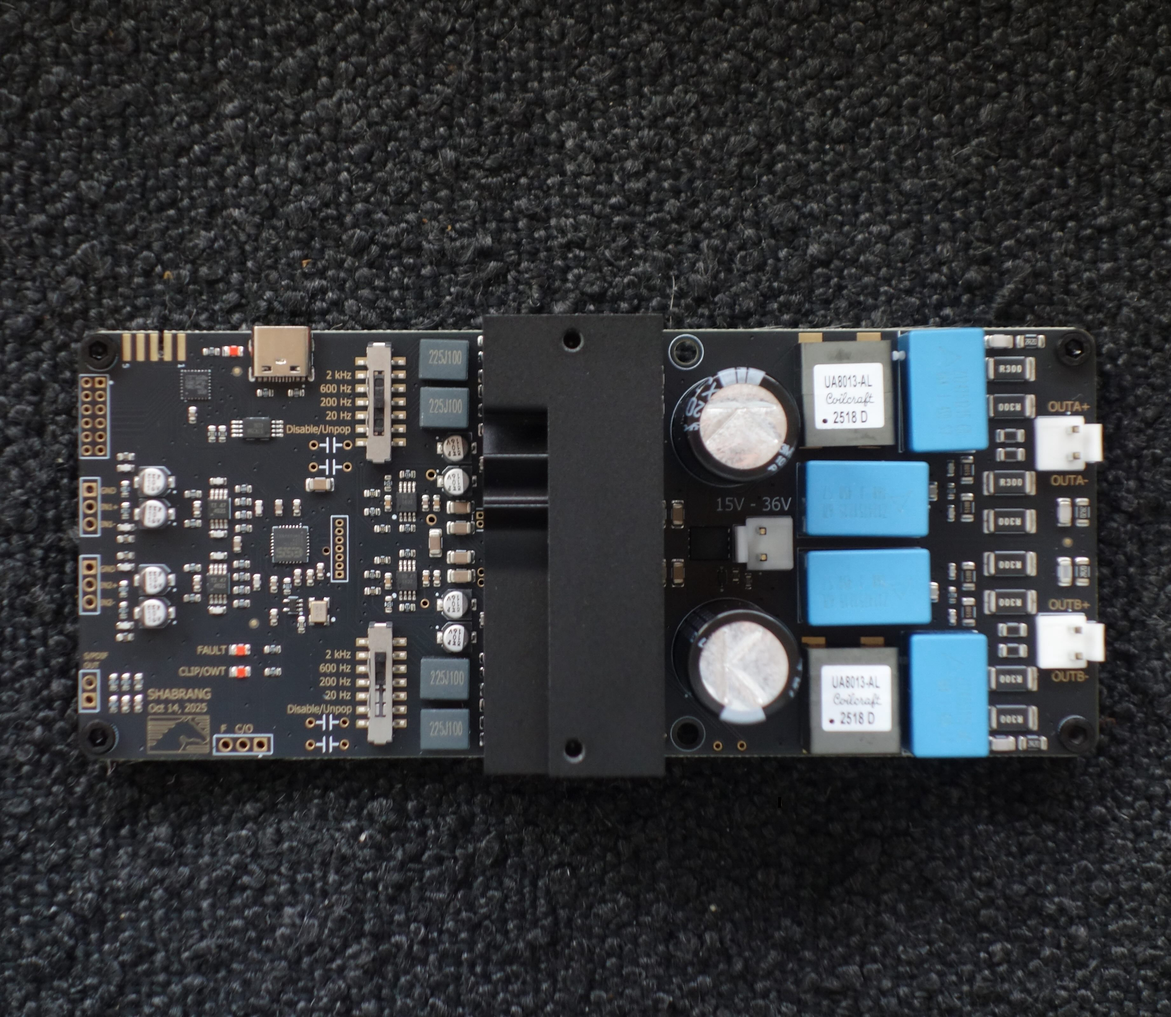
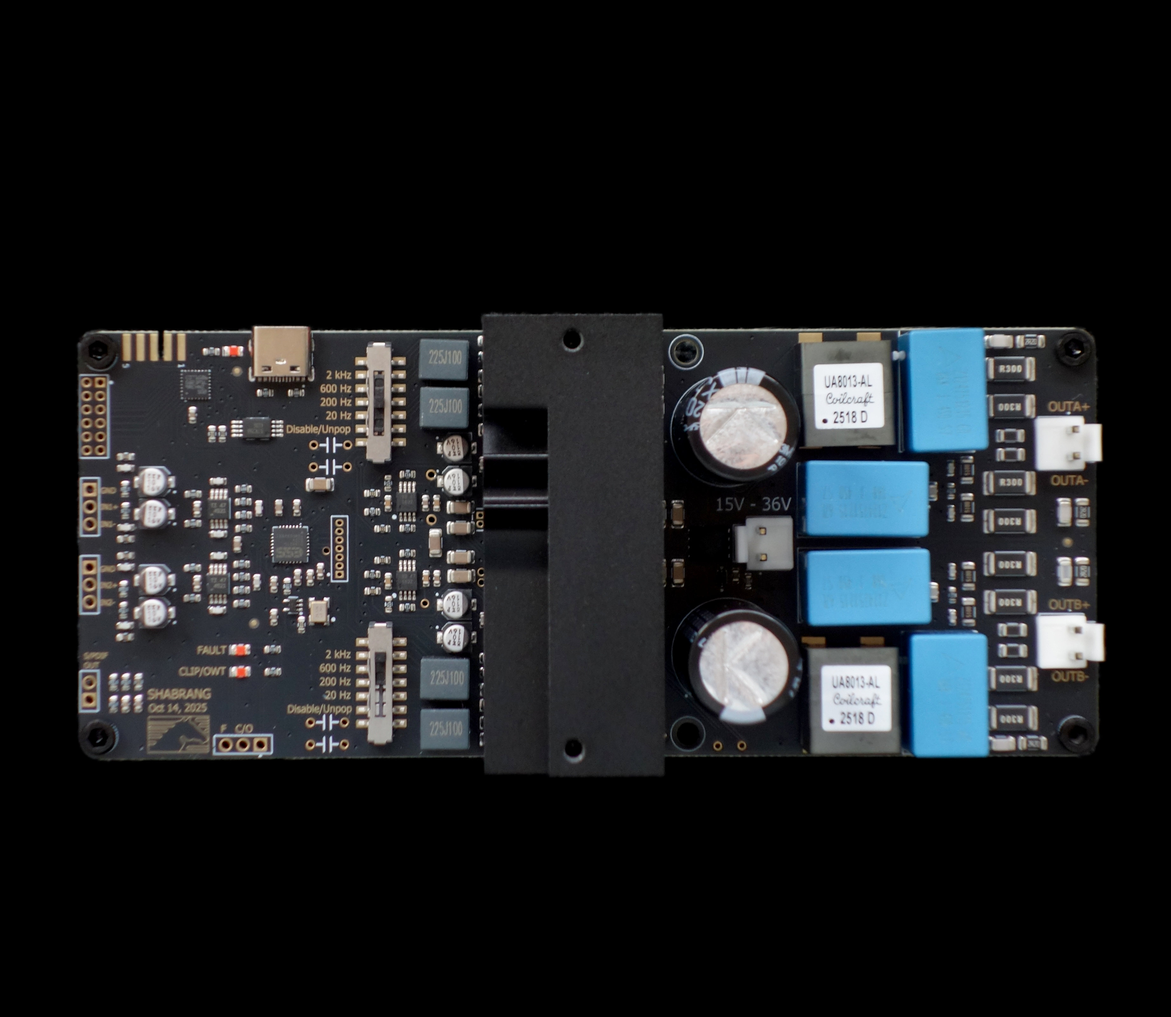
updated images, make improvements to layout include the mobile layout.

diff --git a/index.html b/index.html
@@ -58,7 +58,7 @@ description: "Band‑Selective Current Drive amplifier module with built‑in DS
     </div>
     <div class="media">
       <img
-      src="{{ '/assets/images/amp_cropped_compressed.jpeg' | relative_url }}"
+      src="{{ '/assets/images/amp_matt_background.jpeg' | relative_url }}"
         alt="Black Horse Audio amplifier module"
         decoding="async"
         loading="eager"
@@ -74,6 +74,7 @@ description: "Band‑Selective Current Drive amplifier module with built‑in DS
   </section>
 
   <section class="feature">
+    <h2 class="feature-mobile-title">Why this matters</h2>
     <div>
       <h2>Why this matters</h2>
       <div>
@@ -107,6 +108,7 @@ description: "Band‑Selective Current Drive amplifier module with built‑in DS
   </section>
 
   <section class="feature">
+    <h2 class="feature-mobile-title">How it works</h2>
     <div class="feature-media">
       <img
         style="filter: invert(0.95)"
@@ -143,6 +145,7 @@ description: "Band‑Selective Current Drive amplifier module with built‑in DS
   </section>
 
   <section class="feature">
+    <h2 class="feature-mobile-title">Built‑in DSP: Active XO &amp; EQ</h2>
     <div>
       <h2>Built‑in DSP: Active XO &amp; EQ</h2>
       <div>
@@ -160,7 +163,7 @@ description: "Band‑Selective Current Drive amplifier module with built‑in DS
 
         <h3>Set‑and‑forget workflow</h3>
         <p>
-          Use the <em>Transition Frequency</em> switch during setup, dial your XO &amp; EQ in software, then enjoy the
+          Use the <em>Transition Frequency</em> switch during setup, dial your XO &amp; EQ and send the configs to the amp through USB-C, then enjoy the
           clarity of Band‑Selective Current Drive.
         </p>
       </div>
@@ -170,6 +173,7 @@ description: "Band‑Selective Current Drive amplifier module with built‑in DS
     </div>
   </section>
   <section class="feature">
+    <h2 class="feature-mobile-title">No compromises</h2>
     <div class="feature-media">
       <img src="{{ '/assets/images/amp_wood.jpeg' | relative_url }}" alt="" loading="lazy" decoding="async" />
     </div>

diff --git a/assets/main.scss b/assets/main.scss
@@ -61,7 +61,12 @@ header{display:flex; align-items:center; justify-content:space-between; gap:16px
 .brand .brand-name{color: var(--text);}
 
 .hero{display:grid; grid-template-columns: 1.1fr 0.9fr; gap:28px; align-items:center; margin-top:24px;}
-@media (max-width:960px){.hero{grid-template-columns:1fr;}}
+@media (max-width:960px){
+  .hero{grid-template-columns:1fr;}
+  .hero > .media{order:1;}
+  .hero > :not(.media){order:2;}
+  .hero > .span-all{order:3;}
+}
 
 .h-eyebrow{display:inline-block; font-size:12px; letter-spacing:.16em; text-transform:uppercase; color:var(--muted); background:#0f1116; border:1px solid var(--hairline); padding:8px 10px; border-radius:999px;}
 h1{font-size:44px; line-height:1.1; margin:14px 0 12px;}
@@ -163,7 +168,19 @@ h2{font-size:28px; margin:0 0 14px;}
 
 /* Staggered feature sections */
 .feature{display:grid; grid-template-columns: 1fr 1fr; gap:28px; align-items:center; margin-top:64px;}
-@media (max-width:960px){.feature{grid-template-columns:1fr;}}
+@media (max-width:960px){
+  .feature{grid-template-columns:1fr;}
+  .feature > .feature-mobile-title{display:block; order:1; margin:0 0 10px;}
+  .feature > .feature-media{order:2;}
+  .feature > :not(.feature-media):not(.feature-mobile-title){order:3;}
+  .feature > :not(.feature-media):not(.feature-mobile-title) > h2{display:none;}
+  .feature + .feature{
+    margin-top:28px;
+    padding-top:28px;
+    border-top:1px solid var(--hairline);
+  }
+}
+.feature-mobile-title{display:none;}
 .feature-media{aspect-ratio:1/1; padding: 40px; overflow:hidden; display:grid; place-items:center; color:#8892a8}
 .feature-media img{opacity: 0.9; width:100%; height:100%; object-fit:cover; display:block}
 .feature h2{margin:0 0 12px;}
